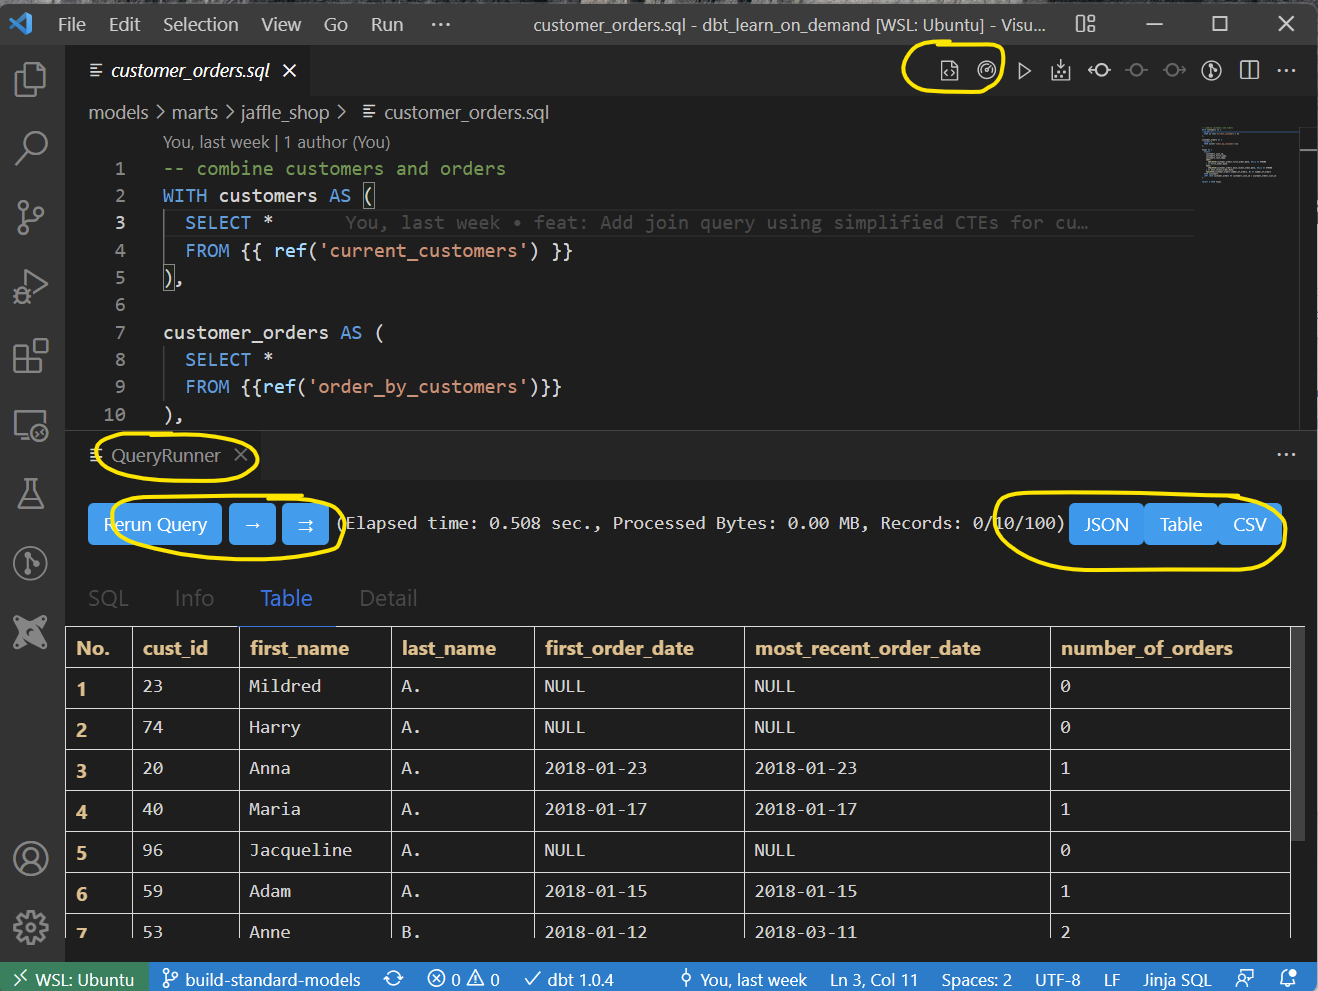
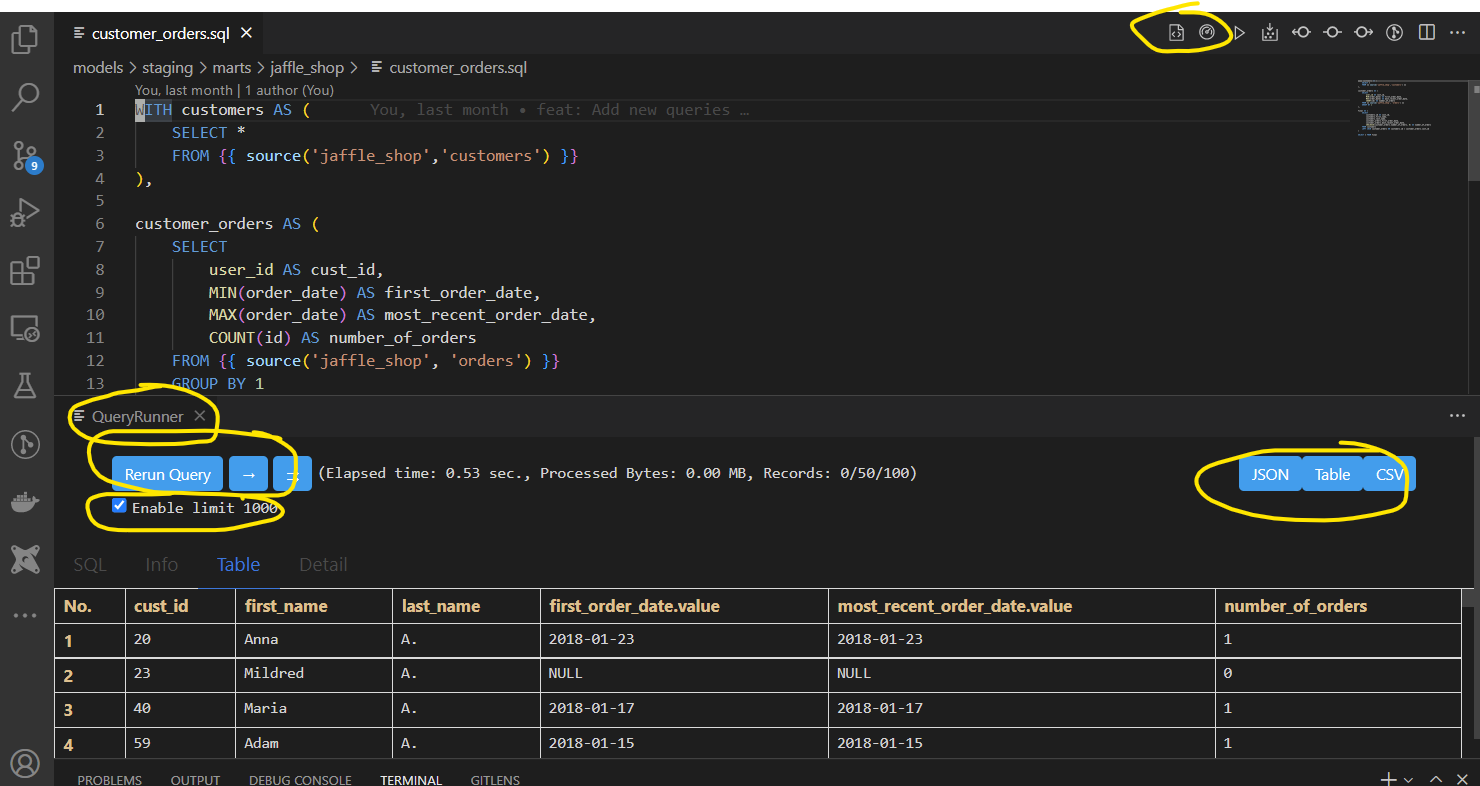
doc: Update readme and image to show latest features

diff --git a/README.md b/README.md
@@ -26,3 +26,6 @@ The highlights of this extension are:
 * The **Query Runner** panel that displays the results of the query. 
    - The **Rerun Query** button which allows you to update the model in your original panel and rerun the query (including the compilation) as well as the **Results navigation** buttons to see the next/prev page of results. 
    - The **Download** buttons which allow to display the results  (with a choice of JSON, text, or csv formats)  as well as download the data into the `logs/results` folder of the dbt-project.
+   - (**new in version 0.5.20**) An automatic limit clause that can be configured to default to _true_ or _false_ and the default limit amount can
+   also be changed (default value: 10000). Unchecking the checkbox and rerunning the query will run the query without the limit clause. _(Note: this limit does not apply to the download buttons)_
+* **Also fixed for in 0.5.20**: Checking, installing, and upgrading the dbt package now works with the latest versions of dbt. 
